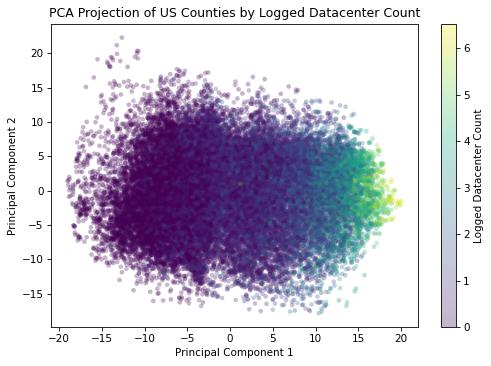
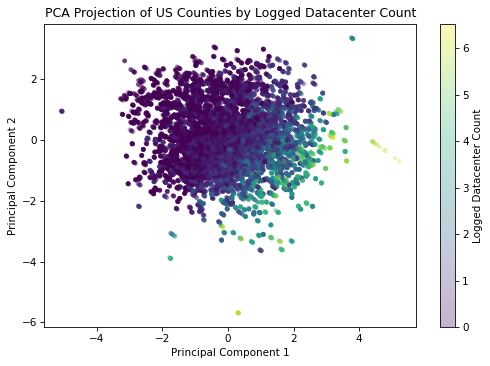
chore: save significant difference in difference models
Save significant difference in difference models to the poster plots file and clean up the formatting.

diff --git a/utils/ml_modeling_utils.py b/utils/ml_modeling_utils.py
@@ -873,8 +873,11 @@ def create_DiD_model(df, y_var, first_treat="first_dc_year"):
 
 
 
-def DiD_coeff_plot(es_df, y_var, treatment_type = "Data Center"):
-    plt.figure(figsize=(9, 5))
+def DiD_coeff_plot(es_df, y_var, treatment_type = "Data Center", save = False, clean_name = None, cluster_num = None):
+    if clean_name is None:
+        clean_name = y_var
+
+    plt.figure(figsize=(7, 4))
 
     plt.errorbar(
         x=es_df.index,
@@ -892,13 +895,19 @@ def DiD_coeff_plot(es_df, y_var, treatment_type = "Data Center"):
     plt.plot(es_df.index, es_df["effect"], color="#1f77b4", linestyle="--", alpha=0.7)
     plt.axhline(0, color="black", linestyle="-", linewidth=1, alpha=0.7)
 
-    plt.title(f"Event Study: {treatment_type} Impact on {y_var}", fontsize=13, fontweight="bold", pad=12)
+    if cluster_num is None:
+        plt.title(f"Event Study: {treatment_type} Impact on {clean_name}", fontsize=13, fontweight="bold", pad=12)
+    else:
+        plt.title(f"{treatment_type} Impact on {clean_name} in Cluster {cluster_num}", fontsize=13, fontweight="bold", pad=12)
+        
     plt.xlabel(f"Relative Year to {treatment_type} Addition", fontsize=11)
-    plt.ylabel(f"Difference in {y_var}", fontsize=11)
+    plt.ylabel(f"Difference in {clean_name}", fontsize=11)
     plt.xticks(es_df.index)
     plt.grid(True, linestyle="--", alpha=0.4)
     plt.legend(frameon=True, loc="best")
 
     plt.tight_layout()
     plt.grid(False)
+    if save:
+        plt.savefig(f"../poster_plots/DiD_{clean_name}_{treatment_type}_{cluster_num}.png", dpi=70, bbox_inches="tight")
     plt.show()
